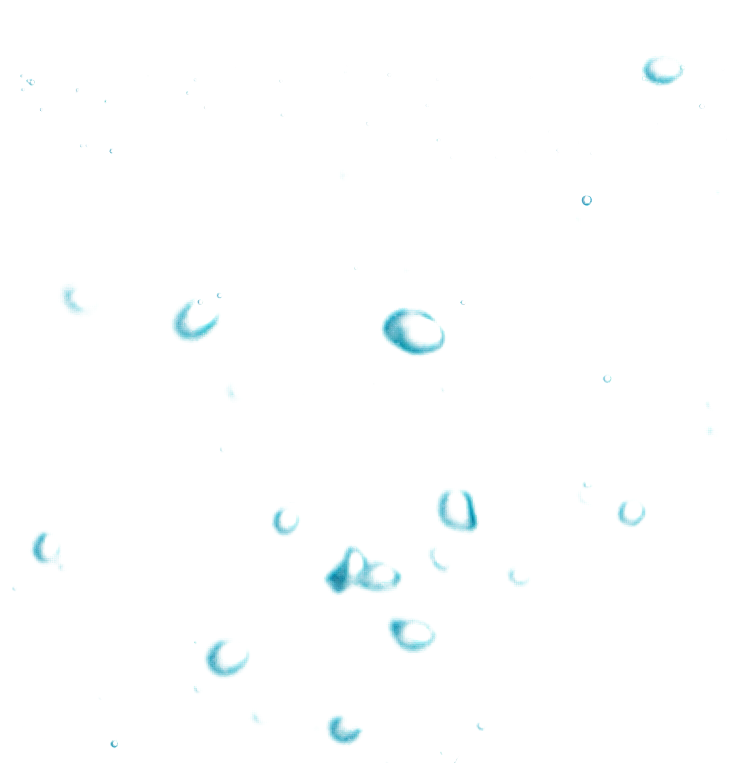
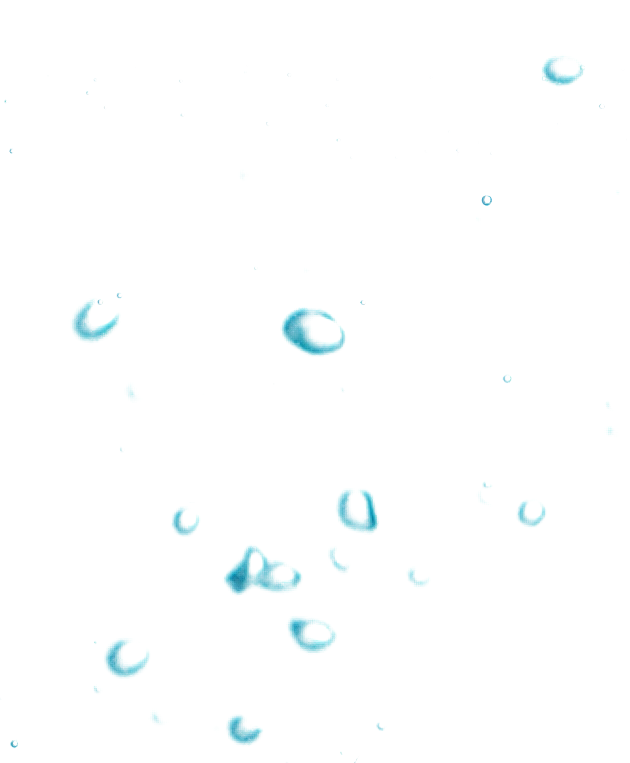
desktop draft complete

diff --git a/dest/css/styles.css b/dest/css/styles.css
@@ -370,23 +370,16 @@ body {
   height: 200px;
 }
 
-#ingredients .waterBubbles-left {
-  margin-top: 1rem;
-  width: 10%;
-}
-
 #ingredients .ingredients-wrapper {
   position: relative;
-  background: -webkit-gradient(linear, left top, left bottom, from(#FFFFFF), color-stop(30%, #d4eff1), color-stop(50%, #d4eff1), color-stop(70%, #d4eff1), to(#FFFFFF));
-  background: -o-linear-gradient(top, #FFFFFF 0%, #d4eff1 30%, #d4eff1 50%, #d4eff1 70%, #FFFFFF 100%);
-  background: linear-gradient(to bottom, #FFFFFF 0%, #d4eff1 30%, #d4eff1 50%, #d4eff1 70%, #FFFFFF 100%);
-  margin: 8rem auto 0 auto;
-  padding-top: 4rem;
+  background: -webkit-gradient(linear, left top, left bottom, from(rgba(255, 255, 255, 0)), color-stop(30%, #d4eff1), color-stop(70%, #d4eff1), to(white));
+  background: -o-linear-gradient(top, rgba(255, 255, 255, 0) 0%, #d4eff1 30%, #d4eff1 70%, white 100%);
+  background: linear-gradient(to bottom, rgba(255, 255, 255, 0) 0%, #d4eff1 30%, #d4eff1 70%, white 100%);
 }
 
 #ingredients .ingredients-wrapper .ingredients-box {
   text-align: center;
-  margin: -17rem auto 4rem auto;
+  margin: -1rem auto 4rem auto;
   width: 80%;
   background-color: #FFF;
   border: 1px solid #424649;
@@ -447,22 +440,33 @@ body {
 
 #ingredients .ingredients-wrapper .ingredients-box #ingredientsSlider {
   margin: 0 auto;
-  width: 70%;
+  width: 50%;
 }
 
-#ingredients .ingredients-wrapper .ingredients-box #ingredientsSlider .slick-list {
-  margin-left: 8rem;
-  margin-bottom: 2rem;
+#ingredients .ingredients-wrapper .ingredients-box #ingredientsSlider .slick-track {
+  display: -webkit-box;
+  display: -ms-flexbox;
+  display: flex;
+  -webkit-box-pack: center;
+  -ms-flex-pack: center;
+  justify-content: center;
 }
 
 #ingredients .ingredients-wrapper .ingredients-box #ingredientsSlider .ingredient {
   margin: 0 1rem;
   width: 80px !important;
-  opacity: .2;
+  opacity: .3;
 }
 
 #ingredients .ingredients-wrapper .ingredients-box #ingredientsSlider .slick-current {
   opacity: 1;
+}
+
+#ingredients .ingredients-wrapper .waterBubbles-left {
+  position: absolute;
+  top: 14rem;
+  left: -1rem;
+  width: 11%;
 }
 
 #ingredients .ingredients-wrapper .waterBubbles-right {

diff --git a/src/sass/custom/_astax.scss b/src/sass/custom/_astax.scss
@@ -154,21 +154,14 @@ $astaxLtBlue: #d4eff1;
     padding-top: 8rem;
     height: 200px;
   }
-  .waterBubbles-left {
-    margin-top: 1rem;
-    width: 10%;
-  }
   .ingredients-wrapper {
     position: relative;
-    background: linear-gradient(to bottom, #FFFFFF 0%, $astaxLtBlue 30%, $astaxLtBlue 50%, $astaxLtBlue 70%, #FFFFFF 100%);
-    margin: 8rem auto 0 auto;
-    padding-top: 4rem;
-
+    // background: linear-gradient(to bottom, #FFFFFF 0%, $astaxLtBlue 30%, $astaxLtBlue 50%, $astaxLtBlue 70%, #FFFFFF 100%);
+    background: linear-gradient(to bottom, rgba(255,255,255,0) 0%,rgba(212,239,241,1) 30%,rgba(212,239,241,1) 70%,rgba(255,255,255,1) 100%);
 
     .ingredients-box {
       text-align: center;
-      margin: -17rem auto 4rem auto;
-      // padding: 0;
+      margin: -1rem auto 4rem auto;
       width: 80%;
       background-color: #FFF;
       border: 1px solid $gray700;
@@ -221,22 +214,31 @@ $astaxLtBlue: #d4eff1;
       } // ingredientsDesc
       #ingredientsSlider {
         margin: 0 auto;
-        width: 70%;
+        width: 50%;
 
-        .slick-list {
-          margin-left: 8rem;
-          margin-bottom: 2rem;
+        .slick-track {
+          // margin-left: 8rem;
+          // margin: 0 auto 2rem auto;
+          // margin-bottom: 2rem;
+          display: flex;
+          justify-content: center;
         }
         .ingredient {
           margin: 0 1rem;
           width: 80px !important;
-          opacity: .2;
+          opacity: .3;
         }
         .slick-current {
           opacity: 1;
         }
       }
     } // ingredients-box
+    .waterBubbles-left {
+      position: absolute;
+      top: 14rem;
+      left: -1rem;
+      width: 11%;
+    }
     .waterBubbles-right {
       position: absolute;
       bottom: 38rem;

diff --git a/src/css/styles.css b/src/css/styles.css
@@ -357,21 +357,14 @@ body {
   height: 200px;
 }
 
-#ingredients .waterBubbles-left {
-  margin-top: 1rem;
-  width: 10%;
-}
-
 #ingredients .ingredients-wrapper {
   position: relative;
-  background: linear-gradient(to bottom, #FFFFFF 0%, #d4eff1 30%, #d4eff1 50%, #d4eff1 70%, #FFFFFF 100%);
-  margin: 8rem auto 0 auto;
-  padding-top: 4rem;
+  background: linear-gradient(to bottom, rgba(255, 255, 255, 0) 0%, #d4eff1 30%, #d4eff1 70%, white 100%);
 }
 
 #ingredients .ingredients-wrapper .ingredients-box {
   text-align: center;
-  margin: -17rem auto 4rem auto;
+  margin: -1rem auto 4rem auto;
   width: 80%;
   background-color: #FFF;
   border: 1px solid #424649;
@@ -432,22 +425,29 @@ body {
 
 #ingredients .ingredients-wrapper .ingredients-box #ingredientsSlider {
   margin: 0 auto;
-  width: 70%;
+  width: 50%;
 }
 
-#ingredients .ingredients-wrapper .ingredients-box #ingredientsSlider .slick-list {
-  margin-left: 8rem;
-  margin-bottom: 2rem;
+#ingredients .ingredients-wrapper .ingredients-box #ingredientsSlider .slick-track {
+  display: flex;
+  justify-content: center;
 }
 
 #ingredients .ingredients-wrapper .ingredients-box #ingredientsSlider .ingredient {
   margin: 0 1rem;
   width: 80px !important;
-  opacity: .2;
+  opacity: .3;
 }
 
 #ingredients .ingredients-wrapper .ingredients-box #ingredientsSlider .slick-current {
   opacity: 1;
+}
+
+#ingredients .ingredients-wrapper .waterBubbles-left {
+  position: absolute;
+  top: 14rem;
+  left: -1rem;
+  width: 11%;
 }
 
 #ingredients .ingredients-wrapper .waterBubbles-right {

diff --git a/src/js/astax.js b/src/js/astax.js
@@ -1,10 +1,9 @@
 $(document).ready(function(){
   $('#testimonialsSlider').slick({
     dots: false,
-    // autoplay: true,
+    autoplay: true,
     // autoplaySpeed: 4000,
-    // fade: true,
-    focusOnChange: true,
+    fade: true,
     speed: 1200,
     // cssEase: 'ease-in-out',
     infinite: true,
@@ -13,26 +12,17 @@ $(document).ready(function(){
     swipe: true
   }); // testimonials slider
   $('#ingredientsDesc').slick({
-    // autoplay: true,
-    // autoplaySpeed: 4000,
     fade: true,
-    // cssEase: 'ease-in-out',
     slidesToShow: 1,
     slidesToScroll: 1,
     arrows: false,
     asNavFor: '#ingredientsSlider'
   });
   $('#ingredientsSlider').slick({
-    // autoplay: true,
-    // autoplaySpeed: 4000,
-    // fade: true,
-    // cssEase: 'ease-in-out',
     slidesToShow: 4,
-    slidesToScroll: 4,
+    slidesToScroll: 1,
     asNavFor: '#ingredientsDesc',
     dots: false,
-    centerMode: true,
-    centerPadding: '60px',
     focusOnSelect: true
   });
 }); //doc ready

diff --git a/dest/js/astax.js b/dest/js/astax.js
@@ -3,10 +3,9 @@
 $(document).ready(function () {
   $('#testimonialsSlider').slick({
     dots: false,
-    // autoplay: true,
+    autoplay: true,
     // autoplaySpeed: 4000,
-    // fade: true,
-    focusOnChange: true,
+    fade: true,
     speed: 1200,
     // cssEase: 'ease-in-out',
     infinite: true,
@@ -16,26 +15,17 @@ $(document).ready(function () {
   }); // testimonials slider
 
   $('#ingredientsDesc').slick({
-    // autoplay: true,
-    // autoplaySpeed: 4000,
     fade: true,
-    // cssEase: 'ease-in-out',
     slidesToShow: 1,
     slidesToScroll: 1,
     arrows: false,
     asNavFor: '#ingredientsSlider'
   });
   $('#ingredientsSlider').slick({
-    // autoplay: true,
-    // autoplaySpeed: 4000,
-    // fade: true,
-    // cssEase: 'ease-in-out',
     slidesToShow: 4,
-    slidesToScroll: 4,
+    slidesToScroll: 1,
     asNavFor: '#ingredientsDesc',
     dots: false,
-    centerMode: true,
-    centerPadding: '60px',
     focusOnSelect: true
   });
 }); //doc ready

diff --git a/index.html b/index.html
@@ -92,11 +92,8 @@
           <img src="./images/ingredients-water.jpg" alt="water" />
         </picture>
       </div>
-      <div class="waterBubbles-left">
-        <img src="./images/top-bubbles.png" alt="bubbles in water">
-      </div>
-      <div class="ingredients-wrapper">
 
+      <div class="ingredients-wrapper">
         <div class="ingredients-box">
           <h2>What’s in It</h2>
           <div id="ingredientsDesc">
@@ -160,6 +157,9 @@
             <div class="ingredient"><img src="./images/squalane-th.jpg" alt="squalane thumbnail"></div>
           </div>
         </div> <!-- ingredients box -->
+        <div class="waterBubbles-left">
+          <img src="./images/top-bubbles.png" alt="bubbles in water">
+        </div>
         <div class="waterBubbles-right">
           <img src="./images/top-bubbles.png" alt="bubbles in water">
         </div>
